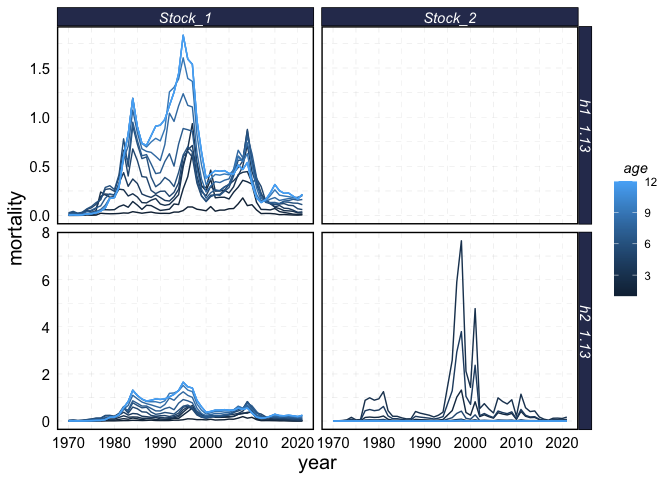
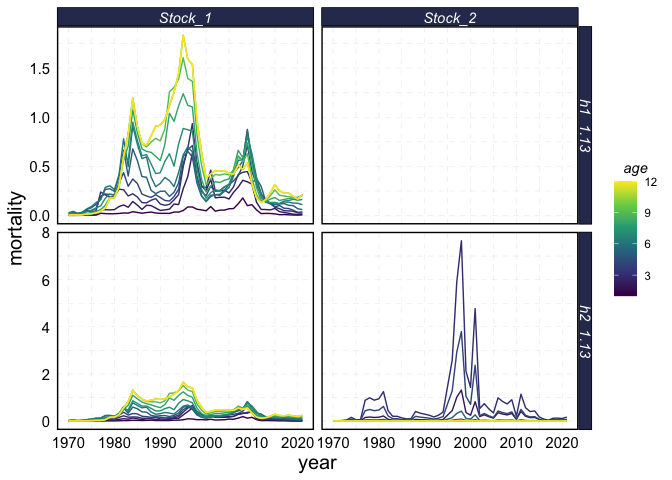
add forcats dependency to plot_selectivities

diff --git a/README.md b/README.md
@@ -414,6 +414,7 @@ fishing_mortality <- get_fishing_mortality(m1_v_m2)
 fishing_mortality %>% 
   ggplot(aes(year, mortality, color = age, group = age)) + 
   geom_line() + 
+  scale_color_viridis_c() +
   facet_grid(model~stock, scales = "free_y") 
 ```
 
